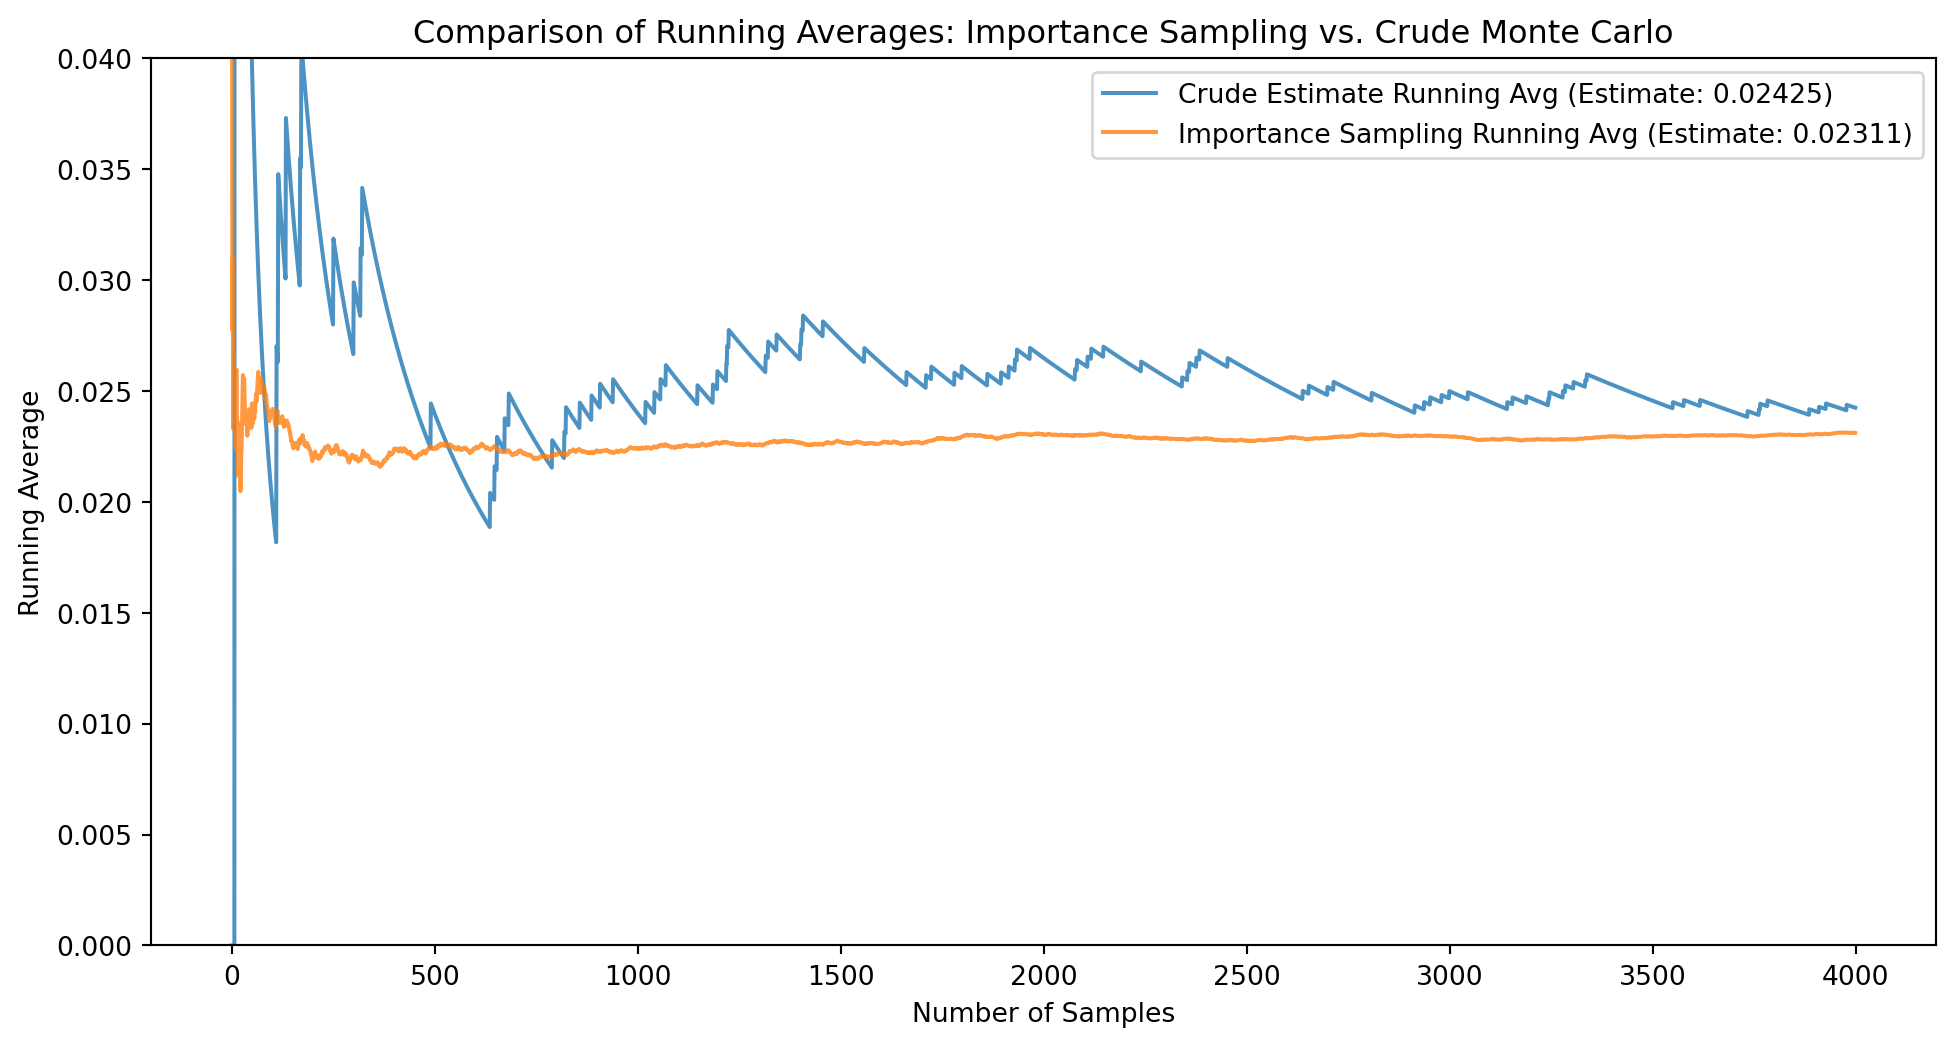
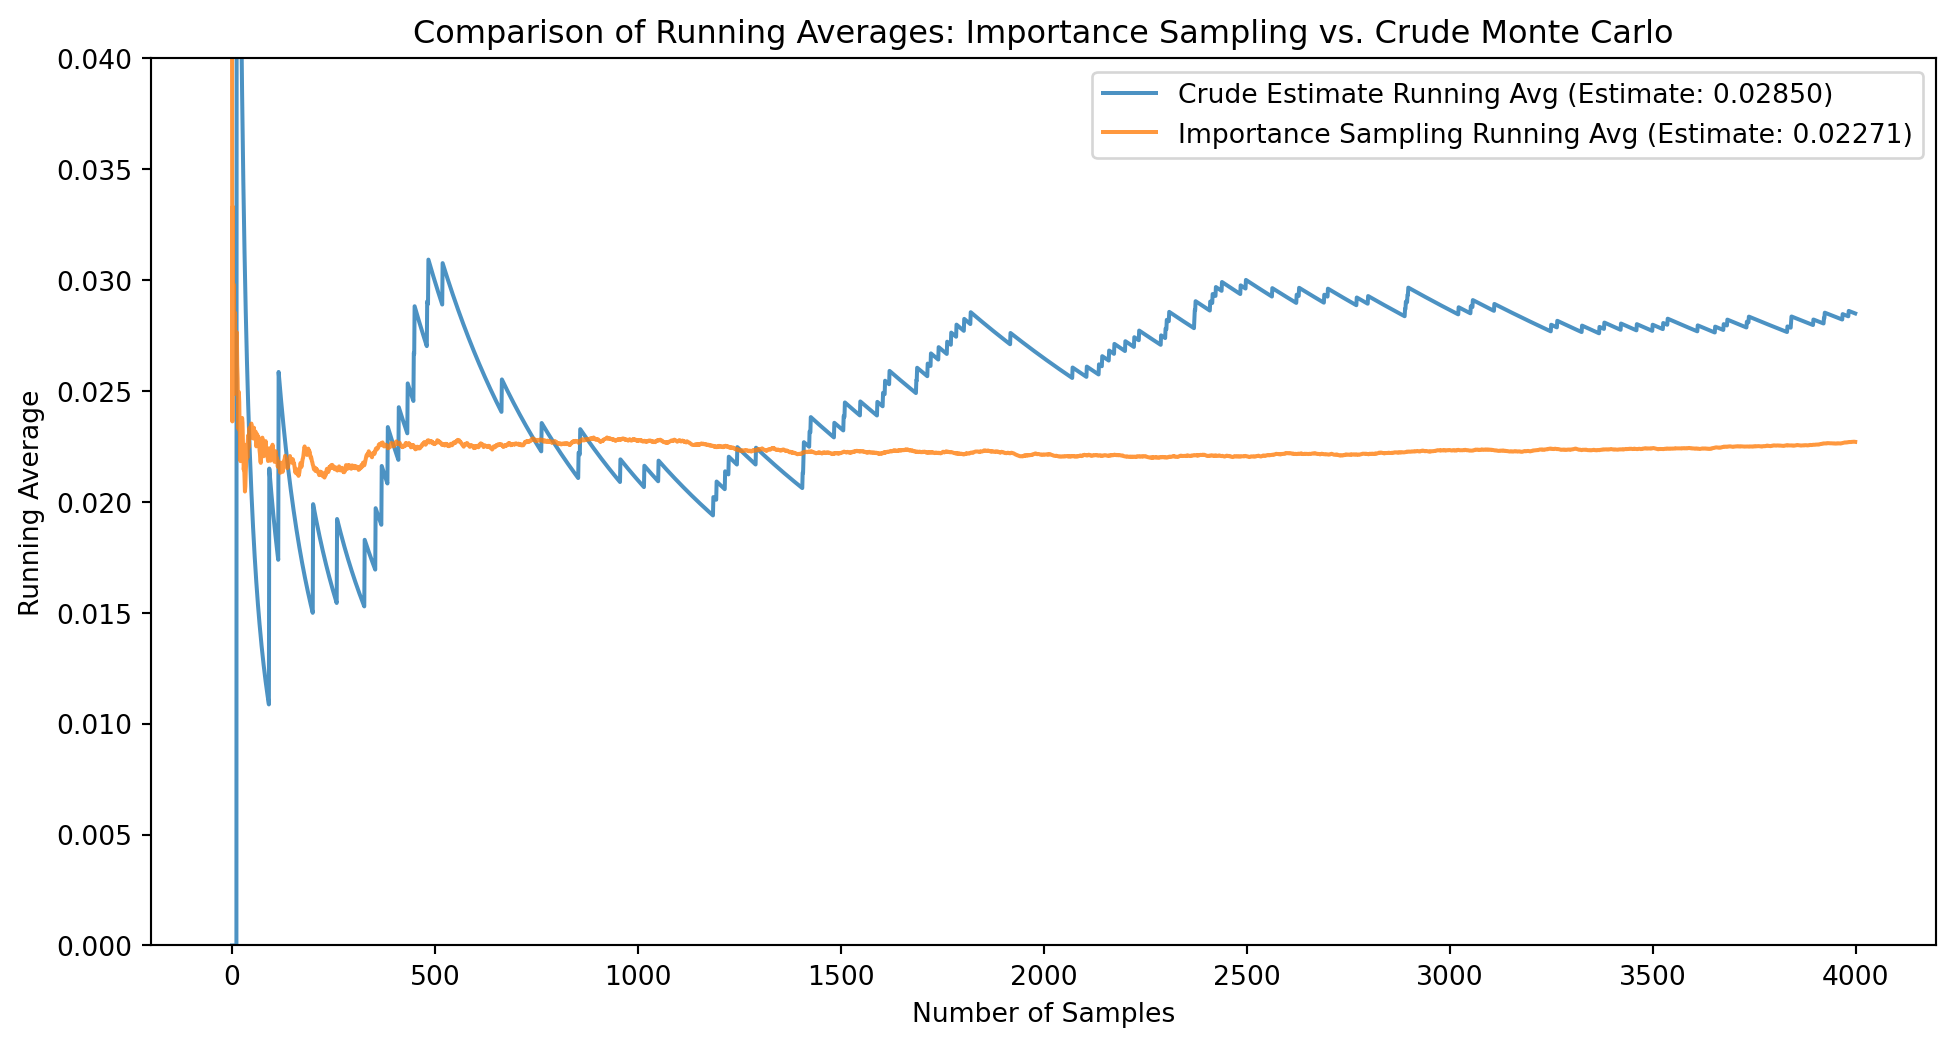
updates

Changed region(s): [[0.0936, 0.0612, 0.9673, 0.673], [0.7801, 0.3059, 0.9361, 0.3365], [0.9049, 0.0612, 0.9361, 0.0918]]

diff --git a/docs/chapters/variance_reduction.html b/docs/chapters/variance_reduction.html
@@ -39,10 +39,14 @@ ul.task-list li input[type="checkbox"] {
 <script src="../site_libs/quarto-html/tippy.umd.min.js"></script>
 <script src="../site_libs/quarto-html/anchor.min.js"></script>
 <link href="../site_libs/quarto-html/tippy.css" rel="stylesheet">
-<link href="../site_libs/quarto-html/quarto-syntax-highlighting-e1a5c8363afafaef2c763b6775fbf3ca.css" rel="stylesheet" id="quarto-text-highlighting-styles">
+<link href="../site_libs/quarto-html/quarto-syntax-highlighting-e1a5c8363afafaef2c763b6775fbf3ca.css" rel="stylesheet" class="quarto-color-scheme" id="quarto-text-highlighting-styles">
+<link href="../site_libs/quarto-html/quarto-syntax-highlighting-dark-8ef56b68f8fa1e9d2ba328e99e439f80.css" rel="stylesheet" class="quarto-color-scheme quarto-color-alternate" id="quarto-text-highlighting-styles">
+<link href="../site_libs/quarto-html/quarto-syntax-highlighting-e1a5c8363afafaef2c763b6775fbf3ca.css" rel="stylesheet" class="quarto-color-scheme-extra" id="quarto-text-highlighting-styles">
 <script src="../site_libs/bootstrap/bootstrap.min.js"></script>
 <link href="../site_libs/bootstrap/bootstrap-icons.css" rel="stylesheet">
-<link href="../site_libs/bootstrap/bootstrap-1ab6eca9cd14c1e3331140e5a6d0686a.min.css" rel="stylesheet" append-hash="true" id="quarto-bootstrap" data-mode="light">
+<link href="../site_libs/bootstrap/bootstrap-db446d54fd5a772fc03f6e5780a6993c.min.css" rel="stylesheet" append-hash="true" class="quarto-color-scheme" id="quarto-bootstrap" data-mode="light">
+<link href="../site_libs/bootstrap/bootstrap-dark-ee81c25b5e6cf3f6942c6f9c45799924.min.css" rel="stylesheet" append-hash="true" class="quarto-color-scheme quarto-color-alternate" id="quarto-bootstrap" data-mode="dark">
+<link href="../site_libs/bootstrap/bootstrap-db446d54fd5a772fc03f6e5780a6993c.min.css" rel="stylesheet" append-hash="true" class="quarto-color-scheme-extra" id="quarto-bootstrap" data-mode="light">
 <script id="quarto-search-options" type="application/json">{
   "location": "navbar",
   "copy-button": false,
@@ -108,7 +112,169 @@ window.Quarto = {
 <meta property="og:site_name" content="Monte Carlo Methods Lecture Notes">
 </head>
 
-<body class="nav-sidebar docked nav-fixed quarto-light">
+<body class="nav-sidebar docked nav-fixed quarto-light"><script id="quarto-html-before-body" type="application/javascript">
+    const toggleBodyColorMode = (bsSheetEl) => {
+      const mode = bsSheetEl.getAttribute("data-mode");
+      const bodyEl = window.document.querySelector("body");
+      if (mode === "dark") {
+        bodyEl.classList.add("quarto-dark");
+        bodyEl.classList.remove("quarto-light");
+      } else {
+        bodyEl.classList.add("quarto-light");
+        bodyEl.classList.remove("quarto-dark");
+      }
+    }
+    const toggleBodyColorPrimary = () => {
+      const bsSheetEl = window.document.querySelector("link#quarto-bootstrap:not([rel=disabled-stylesheet])");
+      if (bsSheetEl) {
+        toggleBodyColorMode(bsSheetEl);
+      }
+    }
+    const setColorSchemeToggle = (alternate) => {
+      const toggles = window.document.querySelectorAll('.quarto-color-scheme-toggle');
+      for (let i=0; i < toggles.length; i++) {
+        const toggle = toggles[i];
+        if (toggle) {
+          if (alternate) {
+            toggle.classList.add("alternate");
+          } else {
+            toggle.classList.remove("alternate");
+          }
+        }
+      }
+    };
+    const toggleColorMode = (alternate) => {
+      // Switch the stylesheets
+      const primaryStylesheets = window.document.querySelectorAll('link.quarto-color-scheme:not(.quarto-color-alternate)');
+      const alternateStylesheets = window.document.querySelectorAll('link.quarto-color-scheme.quarto-color-alternate');
+      manageTransitions('#quarto-margin-sidebar .nav-link', false);
+      if (alternate) {
+        // note: dark is layered on light, we don't disable primary!
+        enableStylesheet(alternateStylesheets);
+        for (const sheetNode of alternateStylesheets) {
+          if (sheetNode.id === "quarto-bootstrap") {
+            toggleBodyColorMode(sheetNode);
+          }
+        }
+      } else {
+        disableStylesheet(alternateStylesheets);
+        enableStylesheet(primaryStylesheets)
+        toggleBodyColorPrimary();
+      }
+      manageTransitions('#quarto-margin-sidebar .nav-link', true);
+      // Switch the toggles
+      setColorSchemeToggle(alternate)
+      // Hack to workaround the fact that safari doesn't
+      // properly recolor the scrollbar when toggling (#1455)
+      if (navigator.userAgent.indexOf('Safari') > 0 && navigator.userAgent.indexOf('Chrome') == -1) {
+        manageTransitions("body", false);
+        window.scrollTo(0, 1);
+        setTimeout(() => {
+          window.scrollTo(0, 0);
+          manageTransitions("body", true);
+        }, 40);
+      }
+    }
+    const disableStylesheet = (stylesheets) => {
+      for (let i=0; i < stylesheets.length; i++) {
+        const stylesheet = stylesheets[i];
+        stylesheet.rel = 'disabled-stylesheet';
+      }
+    }
+    const enableStylesheet = (stylesheets) => {
+      for (let i=0; i < stylesheets.length; i++) {
+        const stylesheet = stylesheets[i];
+        if(stylesheet.rel !== 'stylesheet') { // for Chrome, which will still FOUC without this check
+          stylesheet.rel = 'stylesheet';
+        }
+      }
+    }
+    const manageTransitions = (selector, allowTransitions) => {
+      const els = window.document.querySelectorAll(selector);
+      for (let i=0; i < els.length; i++) {
+        const el = els[i];
+        if (allowTransitions) {
+          el.classList.remove('notransition');
+        } else {
+          el.classList.add('notransition');
+        }
+      }
+    }
+    const isFileUrl = () => {
+      return window.location.protocol === 'file:';
+    }
+    const hasAlternateSentinel = () => {
+      let styleSentinel = getColorSchemeSentinel();
+      if (styleSentinel !== null) {
+        return styleSentinel === "alternate";
+      } else {
+        return false;
+      }
+    }
+    const setStyleSentinel = (alternate) => {
+      const value = alternate ? "alternate" : "default";
+      if (!isFileUrl()) {
+        window.localStorage.setItem("quarto-color-scheme", value);
+      } else {
+        localAlternateSentinel = value;
+      }
+    }
+    const getColorSchemeSentinel = () => {
+      if (!isFileUrl()) {
+        const storageValue = window.localStorage.getItem("quarto-color-scheme");
+        return storageValue != null ? storageValue : localAlternateSentinel;
+      } else {
+        return localAlternateSentinel;
+      }
+    }
+    const toggleGiscusIfUsed = (isAlternate, darkModeDefault) => {
+      const baseTheme = document.querySelector('#giscus-base-theme')?.value ?? 'light';
+      const alternateTheme = document.querySelector('#giscus-alt-theme')?.value ?? 'dark';
+      let newTheme = '';
+      if(authorPrefersDark) {
+        newTheme = isAlternate ? baseTheme : alternateTheme;
+      } else {
+        newTheme = isAlternate ? alternateTheme : baseTheme;
+      }
+      const changeGiscusTheme = () => {
+        // From: https://github.com/giscus/giscus/issues/336
+        const sendMessage = (message) => {
+          const iframe = document.querySelector('iframe.giscus-frame');
+          if (!iframe) return;
+          iframe.contentWindow.postMessage({ giscus: message }, 'https://giscus.app');
+        }
+        sendMessage({
+          setConfig: {
+            theme: newTheme
+          }
+        });
+      }
+      const isGiscussLoaded = window.document.querySelector('iframe.giscus-frame') !== null;
+      if (isGiscussLoaded) {
+        changeGiscusTheme();
+      }
+    };
+    const authorPrefersDark = false;
+    const darkModeDefault = authorPrefersDark;
+      document.querySelector('link#quarto-text-highlighting-styles.quarto-color-scheme-extra').rel = 'disabled-stylesheet';
+      document.querySelector('link#quarto-bootstrap.quarto-color-scheme-extra').rel = 'disabled-stylesheet';
+    let localAlternateSentinel = darkModeDefault ? 'alternate' : 'default';
+    // Dark / light mode switch
+    window.quartoToggleColorScheme = () => {
+      // Read the current dark / light value
+      let toAlternate = !hasAlternateSentinel();
+      toggleColorMode(toAlternate);
+      setStyleSentinel(toAlternate);
+      toggleGiscusIfUsed(toAlternate, darkModeDefault);
+      window.dispatchEvent(new Event('resize'));
+    };
+    // Switch to dark mode if need be
+    if (hasAlternateSentinel()) {
+      toggleColorMode(true);
+    } else {
+      toggleColorMode(false);
+    }
+  </script>
 
 <div id="quarto-search-results"></div>
   <header id="quarto-header" class="headroom fixed-top">
@@ -120,6 +286,7 @@ window.Quarto = {
     </a>
   </div>
         <div class="quarto-navbar-tools tools-end">
+  <a href="" class="quarto-color-scheme-toggle quarto-navigation-tool  px-1" onclick="window.quartoToggleColorScheme(); return false;" title="Toggle dark mode"><i class="bi"></i></a>
 </div>
           <div id="quarto-search" class="" title="Search"></div>
       </div> <!-- /container-fluid -->
@@ -383,6 +550,7 @@ window.Quarto = {
 <!-- main -->
 <main class="content" id="quarto-document-content">
 
+
 <header id="title-block-header" class="quarto-title-block default">
 <div class="quarto-title">
 <h1 class="title"><span class="chapter-number">12</span>&nbsp; <span class="chapter-title">Variance Reduction</span></h1>
@@ -493,7 +661,7 @@ q(x) \propto p(x) |f(x)|
 q(x) = \lambda e^{-\lambda (x-2)}, \quad x \ge 2.
 \]</span> The plots below show the running averages of the crude and importance sampling estimators for <span class="math inline">\(N = 2000\)</span> samples. The importance sampling estimator is much more stable and converges to the true value of <span class="math inline">\(\ell\)</span> much faster than the crude estimator.</p>
 </div>
-<div id="6ee3f7ff" class="cell" data-execution_count="3">
+<div id="a8b60bc3" class="cell" data-execution_count="4">
 <div class="cell-output cell-output-display">
 <div>
 <figure class="figure">
@@ -503,9 +671,9 @@ q(x) = \lambda e^{-\lambda (x-2)}, \quad x \ge 2.
 </div>
 <div class="cell-output cell-output-stdout">
 <pre><code>Variance of Importance Sampling Estimate: 0.00000
-Relative Error of Importance Sampling Estimate: 0.01217
+Relative Error of Importance Sampling Estimate: 0.01247
 Variance of Crude Monte Carlo Estimate: 0.00001
-Relative Error of Crude Monte Carlo Estimate: 0.10030</code></pre>
+Relative Error of Crude Monte Carlo Estimate: 0.09231</code></pre>
 </div>
 </div>
 <section id="remarks" class="level3" data-number="12.1.1">
@@ -542,7 +710,7 @@ Relative Error of Crude Monte Carlo Estimate: 0.10030</code></pre>
 <div id="exm-antithetic-variables" class="theorem example">
 <p><span class="theorem-title"><strong>Example 12.1</strong></span> <strong>Example: Antithetic Variates.</strong> Consider the problem of estimating the integral <span class="math inline">\(\ell = \int_0^1 (1 + x^2)^{-1} dx\)</span> using antithetic variates. The plots below show the running averages of the crude and antithetic variate estimators for <span class="math inline">\(N = 100\)</span> samples. The antithetic variate estimator achieves a <span class="math inline">\(50x\)</span> reduction in variance compared to the crude estimator.</p>
 </div>
-<div id="164c4904" class="cell" data-execution_count="5">
+<div id="130c824c" class="cell" data-execution_count="6">
 <div class="cell-output cell-output-display">
 <div>
 <figure class="figure">
@@ -551,11 +719,11 @@ Relative Error of Crude Monte Carlo Estimate: 0.10030</code></pre>
 </div>
 </div>
 </div>
-<div id="eb01fe1e" class="cell" data-execution_count="6">
+<div id="6e069168" class="cell" data-execution_count="7">
 <div class="cell-output cell-output-stdout">
-<pre><code>Standard Monte Carlo Estimate: 0.780552, Variance: 1.322585e-04
-Antithetic Variates Estimate: 0.786733, Variance: 1.947892e-06
-Variance Reduction Factor: 67.90x</code></pre>
+<pre><code>Standard Monte Carlo Estimate: 0.770064, Variance: 1.180981e-04
+Antithetic Variates Estimate: 0.787292, Variance: 1.917273e-06
+Variance Reduction Factor: 61.60x</code></pre>
 </div>
 </div>
 </section>
@@ -600,6 +768,19 @@ Variance Reduction Factor: 67.90x</code></pre>
 </main> <!-- /main -->
 <script id="quarto-html-after-body" type="application/javascript">
   window.document.addEventListener("DOMContentLoaded", function (event) {
+    // Ensure there is a toggle, if there isn't float one in the top right
+    if (window.document.querySelector('.quarto-color-scheme-toggle') === null) {
+      const a = window.document.createElement('a');
+      a.classList.add('top-right');
+      a.classList.add('quarto-color-scheme-toggle');
+      a.href = "";
+      a.onclick = function() { try { window.quartoToggleColorScheme(); } catch {} return false; };
+      const i = window.document.createElement("i");
+      i.classList.add('bi');
+      a.appendChild(i);
+      window.document.body.appendChild(a);
+    }
+    setColorSchemeToggle(hasAlternateSentinel())
     const icon = "";
     const anchorJS = new window.AnchorJS();
     anchorJS.options = {
